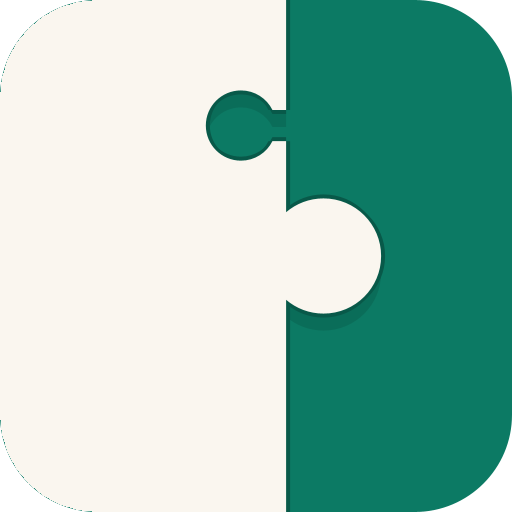
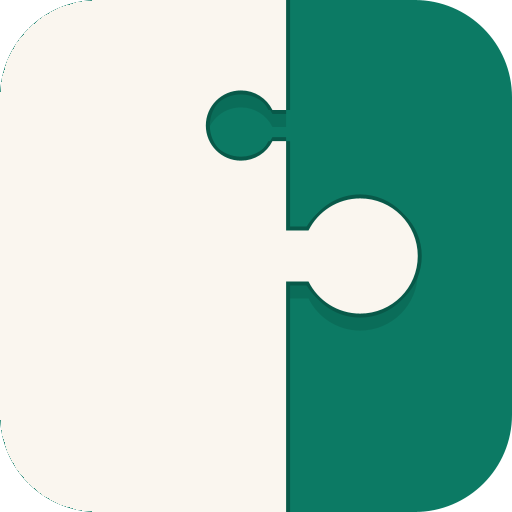
white hero is the green bite mirrored east
Same shape by construction: mirrored placement with the exact head offset, green restored byte-identical. Probes derive their points from the consts.

Changed region(s): [[0.5312, 0.375, 0.8438, 0.625]]

diff --git a/tools/src/test/kotlin/io/github/muntasimulhaque/puzzlet/tools/MakeIconsTest.kt b/tools/src/test/kotlin/io/github/muntasimulhaque/puzzlet/tools/MakeIconsTest.kt
@@ -44,6 +44,10 @@ class MakeIconsTest {
         return { u: Double, v: Double -> Pair((o + u * span).toInt(), (o + v * span).toInt()) }
     }
 
+    /** Head centres derived from the generator consts, never hardcoded. */
+    private fun knobHeadX() = IconDesign.SEAM_X + (IconDesign.BITE_D + 0.015) * IconDesign.HERO
+    private fun socketHeadX() = IconDesign.SEAM_X - IconDesign.BITE_D - 0.015
+
     @Test
     fun `legacy tile carries the seam with knob and socket`() {
         val icon = legacyIcon(192)
@@ -54,10 +58,10 @@ class MakeIconsTest {
         val (fx, fy) = p(0.25, 0.5)
         assertEquals(IconDesign.PAPER, icon.getRGB(fx, fy))
         // The hero knob head, reaching right: paper.
-        val (kx, ky) = p(0.60, IconDesign.KNOB_Y)
+        val (kx, ky) = p(knobHeadX(), IconDesign.KNOB_Y)
         assertEquals("knob head at ($kx, $ky) is not paper", IconDesign.PAPER, icon.getRGB(kx, ky))
         // The socket bite, opening above the knob: not paper.
-        val (sx, sy) = p(0.47, IconDesign.SOCKET_Y)
+        val (sx, sy) = p(socketHeadX(), IconDesign.SOCKET_Y)
         assertNotEquals("socket at ($sx, $sy) should be carved out", IconDesign.PAPER, icon.getRGB(sx, sy))
         // Far right of the seam: tile, never paper.
         val (tx, ty) = p(0.92, 0.5)
@@ -74,9 +78,9 @@ class MakeIconsTest {
             val (x, y) = p(u, v)
             return hypot(x - cx, y - cx) <= size * 66.0 / 108.0
         }
-        assertTrue("knob leaves the mask circle", inside(0.60, IconDesign.KNOB_Y))
-        assertTrue("socket leaves the mask circle", inside(0.47, IconDesign.SOCKET_Y))
-        val (kx, ky) = p(0.60, IconDesign.KNOB_Y)
+        assertTrue("knob leaves the mask circle", inside(knobHeadX(), IconDesign.KNOB_Y))
+        assertTrue("socket leaves the mask circle", inside(socketHeadX(), IconDesign.SOCKET_Y))
+        val (kx, ky) = p(knobHeadX(), IconDesign.KNOB_Y)
         assertEquals(IconDesign.PAPER, layer.getRGB(kx, ky))
     }
 
@@ -93,14 +97,14 @@ class MakeIconsTest {
         assertEquals(IconDesign.PAPER, layer.getRGB(bx, by))
         // The socket bite: carved open. Only the seam's own soft shadow may
         // veil it, never paper and never more than a breath of deep.
-        val (sx, sy) = p(0.47, IconDesign.SOCKET_Y)
+        val (sx, sy) = p(socketHeadX(), IconDesign.SOCKET_Y)
         val socketArgb = layer.getRGB(sx, sy)
         assertNotEquals("socket at ($sx, $sy) must not be paper", IconDesign.PAPER, socketArgb)
         assertTrue("socket at ($sx, $sy) must stay essentially open, alpha was ${socketArgb ushr 24}", (socketArgb ushr 24) < 48)
         // The monochrome sibling renders the same silhouette in white.
         val mono = adaptiveLayer(432, IconDesign.WHITE)
         assertEquals(IconDesign.WHITE, mono.getRGB(bx, by))
-        val (mx, my) = p(0.60, IconDesign.KNOB_Y)
+        val (mx, my) = p(knobHeadX(), IconDesign.KNOB_Y)
         assertEquals(IconDesign.WHITE, mono.getRGB(mx, my))
     }
 }

diff --git a/tools/src/main/kotlin/io/github/muntasimulhaque/puzzlet/tools/MakeIcons.kt b/tools/src/main/kotlin/io/github/muntasimulhaque/puzzlet/tools/MakeIcons.kt
@@ -71,24 +71,25 @@ object IconDesign {
  * the seam, round chamber inside. Never touch without the owner pointing.
  */
 fun socketBite(): Area {
+    val t = AffineTransform.getTranslateInstance(IconDesign.SEAM_X, IconDesign.SOCKET_Y)
+    return biteUnit().createTransformedArea(t)
+}
+
+/** The bite in local coords: mouth at origin opening east, chamber west. */
+private fun biteUnit(): Area {
     val d = IconDesign
     val bite = Area()
-    bite.add(Area(Rectangle2D.Double(d.SEAM_X - d.BITE_D, d.SOCKET_Y - d.BITE_W / 2.0, d.BITE_D + 0.012, d.BITE_W)))
-    bite.add(Area(Ellipse2D.Double(d.SEAM_X - d.BITE_D - 0.015 - d.BITE_R, d.SOCKET_Y - d.BITE_R, d.BITE_R * 2.0, d.BITE_R * 2.0)))
+    bite.add(Area(Rectangle2D.Double(-d.BITE_D, -d.BITE_W / 2.0, d.BITE_D + 0.012, d.BITE_W)))
+    bite.add(Area(Ellipse2D.Double(-d.BITE_D - 0.015 - d.BITE_R, -d.BITE_R, d.BITE_R * 2.0, d.BITE_R * 2.0)))
     return bite
 }
 
-/** The white hero: the green shape at hero scale, rooted at the seam. */
+/** The white hero: the green bite mirrored east at hero scale. Same shape. */
 fun heroKnob(): Area {
     val d = IconDesign
-    val w = d.BITE_W * d.HERO
-    val len = (d.BITE_D + 0.012) * d.HERO
-    val hr = d.BITE_R * d.HERO
-    val knob = Area()
-    knob.add(Area(Rectangle2D.Double(d.SEAM_X - 0.005, d.KNOB_Y - w / 2.0, len + 0.005, w)))
-    val hx = d.SEAM_X - 0.005 + len - hr * 0.55
-    knob.add(Area(Ellipse2D.Double(hx - hr, d.KNOB_Y - hr, hr * 2.0, hr * 2.0)))
-    return knob
+    val t = AffineTransform.getTranslateInstance(d.SEAM_X, d.KNOB_Y)
+    t.concatenate(AffineTransform.getScaleInstance(-d.HERO, d.HERO))
+    return biteUnit().createTransformedArea(t)
 }
 
 /** The S region: paper field, green-shaped white hero out, green socket in. */

diff --git a/AGENTS.md b/AGENTS.md
@@ -438,3 +438,6 @@ policy is live at `https://muntasimulhaque.github.io/puzzlet/privacy.html`.
 - 2026-09-06: Correction, green restored byte-identical to approved and
   white rebuilt from it at hero scale. My earlier pass reshaped both when
   only white was asked. Probes green, art regenerated.
+- 2026-09-06: White hero is now the green bite mirrored east, exact head
+  offset included, after the owner corrected me twice. Same shape by
+  construction, green untouched.
